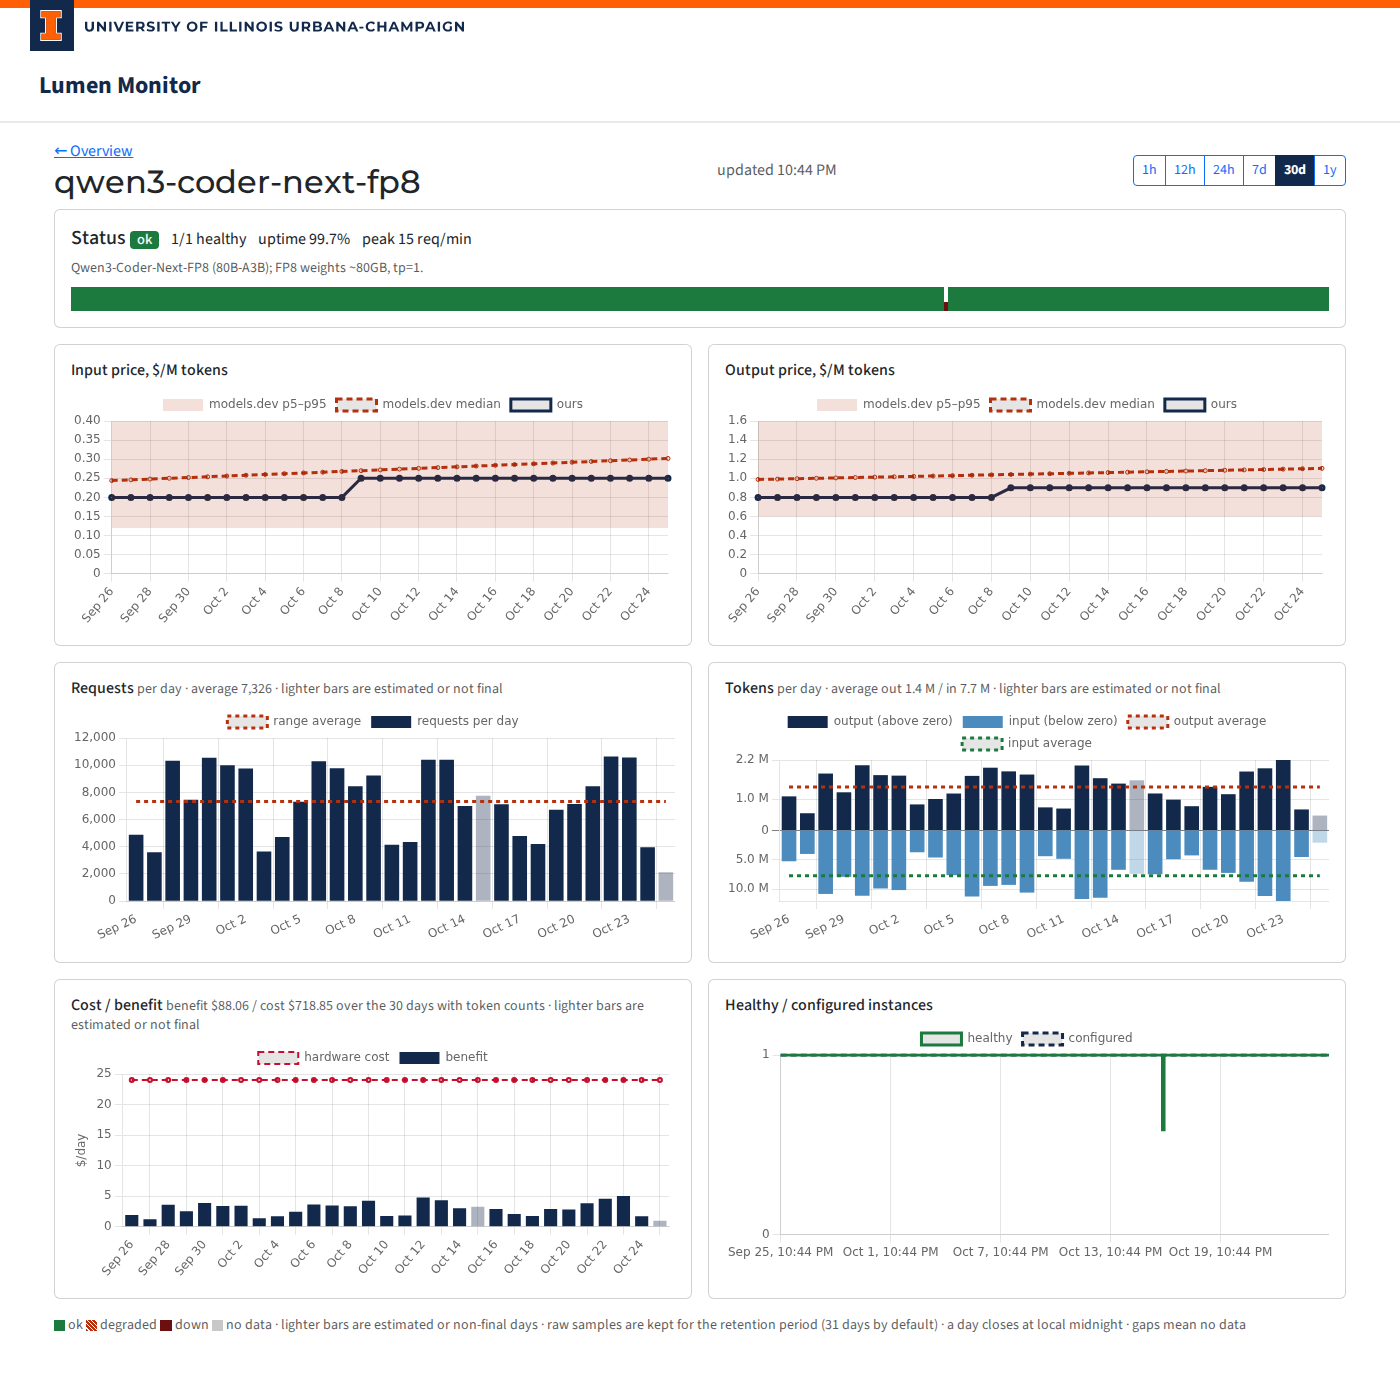
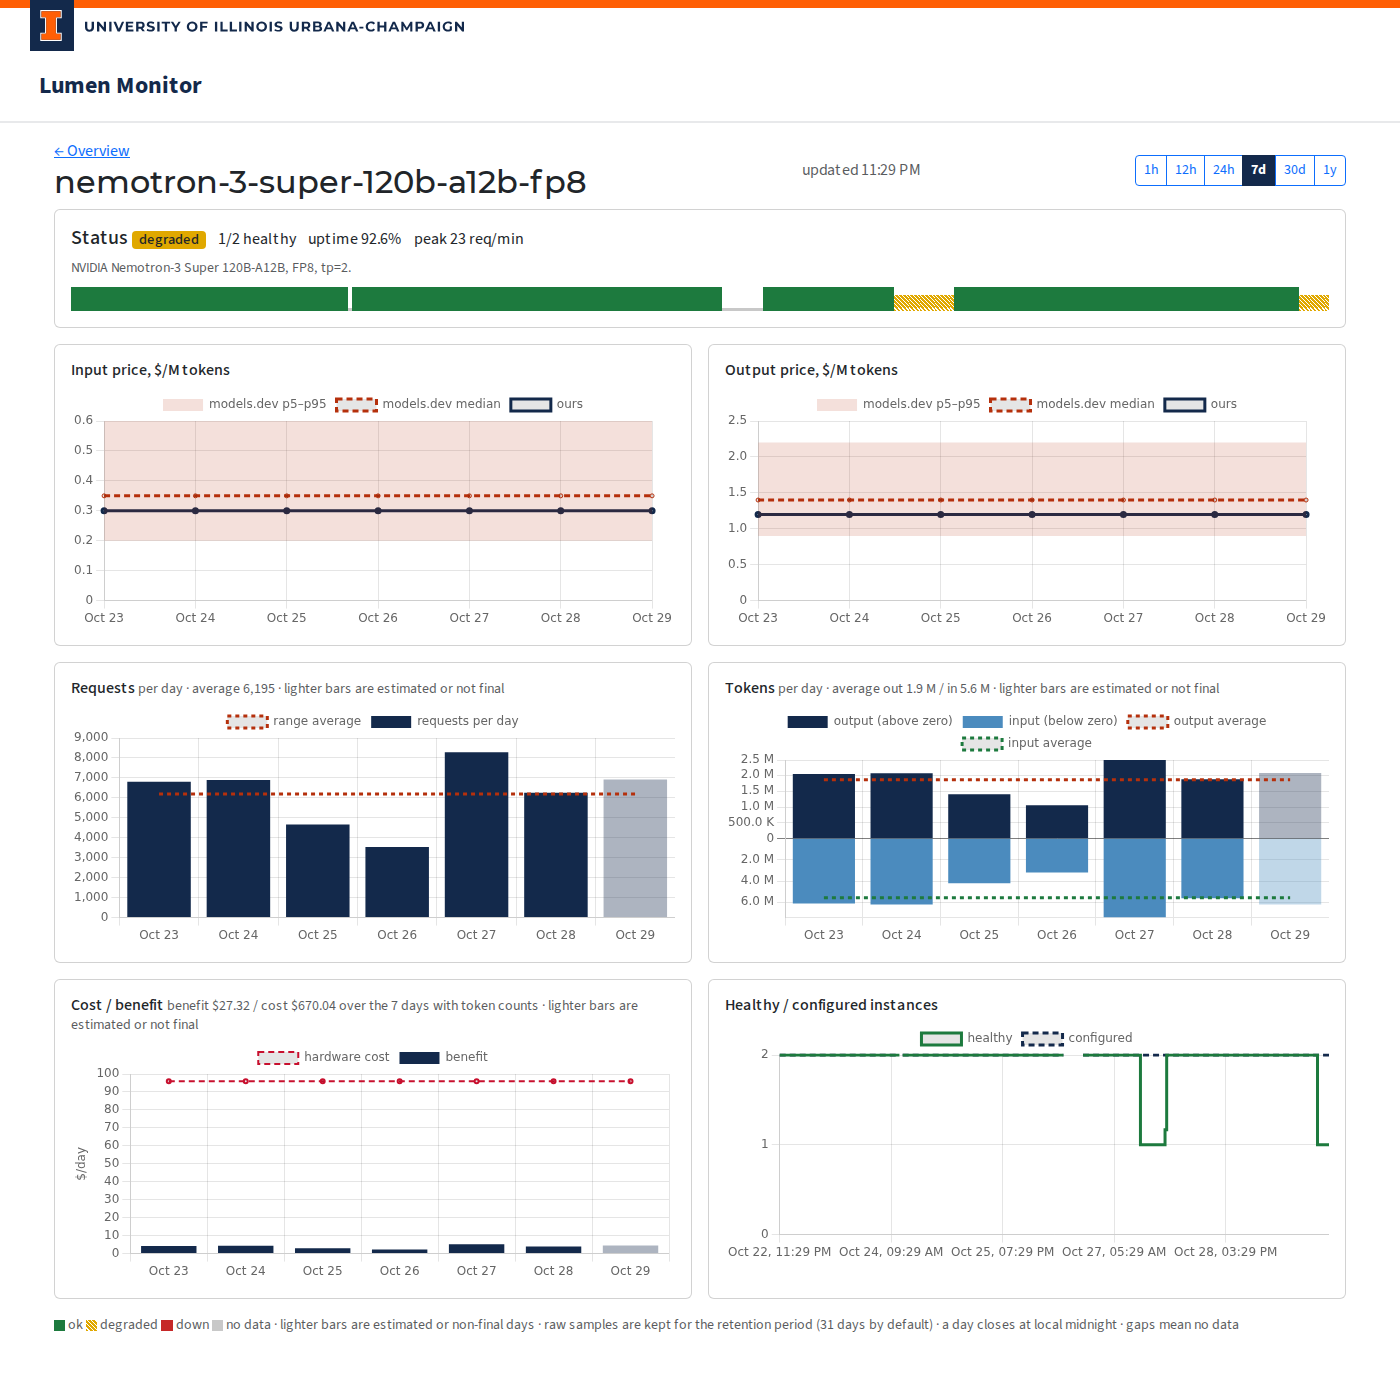
Monitor: yellow degraded, red down and strip mouse-over times (#349)
* Monitor: draw degraded yellow, show strip cell times on mouse-over

Degraded is now yellow and down red in the Lumen chart, strips, legend
and badges; the degraded badge gets dark text. The overview and model
APIs send strip_times, one start time per strip cell (ISO dates for 1y),
and degraded or down strip cells get a local-time title, listed in the
strip's aria-label up to 5 with "+N more". Screenshots re-captured.

Fixes #308

* Monitor: list the color and threshold change under Changed

Fixes #308

* Monitor: show the time of no-data strip cells too

Every strip cell that is not ok, including no data, gets a title with
its time and is listed in the strip's aria-label (capped at 5).

Fixes #308

diff --git a/scripts/monitor/monitor/static/common.js b/scripts/monitor/monitor/static/common.js
@@ -3,7 +3,7 @@
   'use strict';
 
   const STATUS_TEXT = { ok: 'ok', degraded: 'degraded', down: 'down', unknown: 'no data' };
-  const STATUS_COLOR = { ok: '#1d7a3e', degraded: '#b5300c', down: '#6b0f0f', unknown: '#c8c8c8' };
+  const STATUS_COLOR = { ok: '#1d7a3e', degraded: '#e0a800', down: '#c62828', unknown: '#c8c8c8' };
   const dash = '—';
   const isNum = v => typeof v === 'number' && isFinite(v);
   const fmtInt = v => isNum(v) ? Math.round(v).toLocaleString() : dash;
@@ -36,12 +36,41 @@
   // but was not ok, so it is drawn as degraded, the way uptime counts it.
   const drawn = s => STATUS_COLOR[s] ? s : 'degraded';
 
-  function strip(statuses) {
+  // When a strip cell starts, in local time: "26 Oct 14:05", or "26 Oct 2026" for a 1y day ("2026-10-26").
+  const MONTHS = ['Jan', 'Feb', 'Mar', 'Apr', 'May', 'Jun', 'Jul', 'Aug', 'Sep', 'Oct', 'Nov', 'Dec'];
+  const pad = n => String(n).padStart(2, '0');
+  function fmtCellTime(iso) {
+    if (/^\d{4}-\d{2}-\d{2}$/.test(iso)) {
+      const [y, m, d] = iso.split('-').map(Number);
+      return `${d} ${MONTHS[m - 1]} ${y}`;
+    }
+    const t = new Date(iso);
+    return `${t.getDate()} ${MONTHS[t.getMonth()]} ${pad(t.getHours())}:${pad(t.getMinutes())}`;
+  }
+  const MAX_LISTED = 5;
+
+  // `times` (one per cell, optional) gives each cell that is not ok (degraded, down or no data) a
+  // title with its time and status; the strip's aria-label lists those periods, at most MAX_LISTED.
+  function strip(statuses, times) {
     const counts = {};
     statuses.forEach(s => { counts[drawn(s)] = (counts[drawn(s)] || 0) + 1; });
     const summary = Object.entries(counts).map(([s, n]) => `${n} ${STATUS_TEXT[s]}`).join(', ');
-    const node = el('div', { class: 'strip', role: 'img', 'aria-label': `Status buckets: ${summary}`, title: summary });
-    statuses.forEach(s => node.append(el('span', { class: `strip-cell s-${drawn(s)}` })));
+    const periods = [];
+    const cells = statuses.map((s, i) => {
+      const attrs = { class: `strip-cell s-${drawn(s)}` };
+      if (times && times[i] && drawn(s) !== 'ok') {
+        attrs.title = `${fmtCellTime(times[i])} – ${STATUS_TEXT[drawn(s)]}`;
+        periods.push(attrs.title);
+      }
+      return el('span', attrs);
+    });
+    let label = `Status buckets: ${summary}`;
+    if (periods.length) {
+      const more = periods.length > MAX_LISTED ? `, +${periods.length - MAX_LISTED} more` : '';
+      label += `. Not ok: ${periods.slice(0, MAX_LISTED).join(', ')}${more}`;
+    }
+    const node = el('div', { class: 'strip', role: 'img', 'aria-label': label, title: summary });
+    cells.forEach(c => node.append(c));
     return node;
   }
 

diff --git a/scripts/monitor/monitor/static/overview.js b/scripts/monitor/monitor/static/overview.js
@@ -34,7 +34,7 @@
     return parts;
   }
 
-  function renderRows(models) {
+  function renderRows(models, times) {
     const body = document.getElementById('model-rows');
     body.replaceChildren();
     if (!models.length) {
@@ -49,7 +49,7 @@
       if (m.description) name.append(el('div', { class: 'model-desc', text: m.description }));
       const tr = el('tr', {}, [
         name,
-        cell(strip(m.strip)),
+        cell(strip(m.strip, times)),
         cell(fmtPct(m.uptime)),
         cell(`${m.healthy ?? dash}/${m.configured ?? dash}`),
         cell(inOut(fmtFix(m.input_price, 2), fmtFix(m.output_price, 2))),
@@ -136,7 +136,7 @@
       state.dir = ov.direction;
       renderLumen(lumen);
       renderCards(ov.cards);
-      renderRows(ov.models);
+      renderRows(ov.models, ov.strip_times);
       renderSort(ov.sort, ov.direction);
       document.getElementById('updated').textContent = `updated ${fmtTime(ov.generated_at)}`;
       error.classList.add('d-none');

diff --git a/scripts/monitor/monitor/static/detail.js b/scripts/monitor/monitor/static/detail.js
@@ -216,7 +216,7 @@
     });
   }
 
-  function renderHeader(h) {
+  function renderHeader(h, times) {
     const status = h.status || 'unknown';
     const badge = document.getElementById('model-status');
     badge.textContent = status;
@@ -225,11 +225,11 @@
     document.getElementById('model-uptime').textContent = fmtPct(h.uptime);
     document.getElementById('model-peak').textContent = isNum(h.peak_rpm) ? fmtInt(h.peak_rpm) : dash;
     document.getElementById('model-desc').textContent = h.description || '';
-    document.getElementById('model-strip').replaceChildren(strip(h.strip));
+    document.getElementById('model-strip').replaceChildren(strip(h.strip, times));
   }
 
   function render(s) {
-    renderHeader(s.header);
+    renderHeader(s.header, s.strip_times);
     priceChart('input-price', 'input', s.prices, s.daily);
     priceChart('output-price', 'output', s.prices, s.daily);
     trafficChart('requests', 'requests', s.traffic, fmtInt);

diff --git a/scripts/monitor/monitor/static/monitor.css b/scripts/monitor/monitor/static/monitor.css
@@ -1,8 +1,8 @@
 :root {
   --theme-primary: #13294B;
   --status-ok: #1d7a3e;
-  --status-degraded: #b5300c;
-  --status-down: #6b0f0f;
+  --status-degraded: #e0a800;
+  --status-down: #c62828;
   --status-unknown: #c8c8c8;
 }
 
@@ -14,7 +14,7 @@ ilw-page { --ilw-margin--side: 1.875rem; }
 
 .state-badge { display: inline-block; padding: 0 .5em; border-radius: .25rem; color: #fff; font-size: .9rem; }
 .state-up { background: var(--status-ok); }
-.state-degraded { background: var(--status-degraded); }
+.state-degraded { background: var(--status-degraded); color: #212529; }
 .state-down { background: var(--status-down); }
 .state-unknown { background: #595959; }
 

diff --git a/scripts/monitor/monitor/overview.py b/scripts/monitor/monitor/overview.py
@@ -5,7 +5,8 @@ request/token windows come from the live snapshot of the last successful
 probe. Before the first probe after a restart they come from the samples of
 the last successful probe in the database, without descriptions or windows.
 Strips, uptime and peak req/min come from `probes`/`samples` (1y: the daily
-rows); prices and hardware cost from the latest daily rows.
+rows), with `strip_times` giving when each strip cell starts; prices and
+hardware cost from the latest daily rows.
 
 A day's totals are exact only when its lumen row is `final` and not
 `estimated`. A value built from any other day is flagged `partial`.
@@ -20,6 +21,7 @@ from monitor.buckets import (
     DOWN,
     OK,
     UNKNOWN,
+    DayGrid,
     Range,
     bucket_statuses,
     daily_status,
@@ -56,6 +58,13 @@ DEFAULT_SORT = "model"
 def _iso(at: datetime | None) -> str | None:
     """Naive UTC as ISO 8601 with a `Z`, for the browser to show in local time."""
     return None if at is None else at.isoformat(timespec="seconds") + "Z"
+
+
+def strip_times(grid) -> list[str]:
+    """When each status strip cell starts: ISO dates for 1y, ISO times (UTC) for the short ranges."""
+    if isinstance(grid, DayGrid):
+        return [d.isoformat() for d in grid.days]
+    return [_iso(t) for t in grid.times()]
 
 
 def _window(windows: dict | None, key: str) -> float | None:
@@ -355,6 +364,7 @@ def overview(session: Session, config: Config, snapshot: LiveSnapshot | None, rn
         "probed_at": _iso(probed_at),
         "cards": status_cards(session, config, now, models),
         "models": rows,
+        "strip_times": strip_times(make_grid(rng, config.refresh.web, now, config.timezone)),
         "sort": sort,
         "direction": direction,
     }

diff --git a/scripts/monitor/monitor/detail.py b/scripts/monitor/monitor/detail.py
@@ -3,6 +3,7 @@
 Every range returns the same series, so the page draws the same charts:
 
 - `header`: the model's overview row (status, strip, uptime, instances, prices, cost)
+- `strip_times`: when each strip cell starts (ISO times, or ISO dates for 1y)
 - `prices`: our input/output price and the models.dev median and p5/p95; below 7d one
   point per bucket with the prices of the bucket's local day, each source carrying its
   latest earlier day forward when that day has no row (so the line steps at local
@@ -29,7 +30,7 @@ from monitor.buckets import Range, make_grid, range_days
 from monitor.config import Config
 from monitor.daily import local_day
 from monitor.models import DailyStat, Sample, token_sum
-from monitor.overview import _iso, counted_fraction, current_models, exact, model_rows
+from monitor.overview import _iso, counted_fraction, current_models, exact, model_rows, strip_times
 from monitor.probe import LiveSnapshot
 
 # From this span up, traffic is shown per local day instead of per bucket.
@@ -242,6 +243,7 @@ def series(session: Session, config: Config, snapshot: LiveSnapshot | None, mode
         "generated_at": _iso(now),
         "daily": is_daily(rng),
         "header": header,
+        "strip_times": strip_times(grid),
         "prices": _price_points(rows, days) if is_daily(rng) else _bucket_price_points(session, model_id, rows, days, grid, tz),
         "traffic": traffic,
         "hardware": {"points": hardware, "range": hardware_range},

diff --git a/scripts/monitor/tests/test_detail.py b/scripts/monitor/tests/test_detail.py
@@ -90,6 +90,7 @@ def test_every_series_for_every_range(env, range_key):
     assert data["traffic"]["unit"] == ("day" if data["daily"] else "minute")
     assert len(data["traffic"]["points"]) == TRAFFIC_POINTS[range_key]
     assert len(data["header"]["strip"]) == STRIP_BUCKETS[range_key]
+    assert len(data["strip_times"]) == STRIP_BUCKETS[range_key]
     assert data["instances"]["unit"] == ("day" if range_key == "1y" else "bucket")
     assert len(data["instances"]["points"]) == STRIP_BUCKETS[range_key]
     assert len(data["hardware"]["points"]) == DAYS[range_key]
@@ -344,6 +345,13 @@ def test_1y_instances_from_the_daily_counters(env):
     assert data["instances"]["points"][-2] == {"t": "2026-10-16", "healthy": 1.5, "configured": 2}
     assert data["instances"]["points"][-1] == {"t": "2026-10-17", "healthy": None, "configured": None}
     assert data["header"]["strip"][-2] == "ok"
+    assert data["strip_times"][-2:] == ["2026-10-16", "2026-10-17"]
+
+
+def test_short_range_strip_times_match_the_buckets(env):
+    data = get(env, "1h")
+    assert data["strip_times"] == [p["t"] for p in data["instances"]["points"]]
+    assert data["strip_times"][-1] == "2026-10-17T16:59:00Z"
 
 
 def test_model_with_history_only_and_unknown_model(env):

diff --git a/scripts/monitor/tests/test_overview.py b/scripts/monitor/tests/test_overview.py
@@ -393,3 +393,26 @@ def test_overview_payload(env):
     assert [m["id"] for m in data["models"]] == ["a", "b"]  # equal values keep the id order
     assert data["cards"]["active_models"] == 2
     assert all(len(m["strip"]) == 240 for m in data["models"])
+    # 12h buckets are 3 minutes, the last one starting 3 minutes before now.
+    assert len(data["strip_times"]) == 240
+    assert data["strip_times"][0] == "2026-10-17T05:00:00Z" and data["strip_times"][-1] == "2026-10-17T16:57:00Z"
+
+
+@pytest.mark.parametrize("range_key", list(RANGES))
+def test_strip_times_match_the_strips(env, range_key):
+    store, sf = env
+    snapshot = LiveSnapshot()
+    snapshot.set(Snapshot(NOW, [snap_model()]))
+    with sf() as session:
+        data = overview(session, store.current, snapshot, RANGES[range_key], NOW)
+    assert len(data["strip_times"]) == len(data["models"][0]["strip"])
+
+
+def test_1y_strip_times_are_local_dates(env):
+    store, sf = env
+    snapshot = LiveSnapshot()
+    snapshot.set(Snapshot(NOW, [snap_model()]))
+    with sf() as session:
+        data = overview(session, store.current, snapshot, RANGES["1y"], NOW)
+    assert len(data["strip_times"]) == 365
+    assert data["strip_times"][-2:] == ["2026-10-16", "2026-10-17"]

diff --git a/scripts/monitor/README.md b/scripts/monitor/README.md
@@ -95,7 +95,10 @@ under `base_path` (restart after changing it). The overview has:
 
 Ranges are 1h, 12h, 24h, 7d and 30d from the raw probes and samples, bucketed at 1m, 3m, 5m,
 30m and 2h (never below `refresh.web`); a bucket shows its worst status and is "no data" when
-empty. 1y uses one bucket per local day. For a model: ok at 99% availability or more, degraded
+empty. Strips, badges and the Lumen chart draw ok green, degraded yellow and down red; strip
+cells also get shorter (degraded hatched), so the state does not rely on colour. Hovering a
+cell that is not ok (degraded, down or no data) shows when its bucket starts, in local time (the
+day on 1y); a screen reader hears the first 5 such periods. 1y uses one bucket per local day. For a model: ok at 99% availability or more, degraded
 above 0%, down otherwise. For Lumen, from the probes still kept: ok when 99% or more of the
 day's probes were ok, down when none was up (failed, or more than `lumen.down_above` percent of
 models down), degraded otherwise; its uptime is the share of probes that were up. `*` marks

diff --git a/CHANGELOG.md b/CHANGELOG.md
@@ -35,6 +35,7 @@ All notable changes to Lumen will be documented in this file.
 ### Changed
 
 - `lumen.sh` no longer adds models without text input (e.g. audio-only) to the opencode config.
+- Monitor: degraded is drawn yellow and red is kept for down; Lumen counts as down when more than `lumen.down_above` (default 50%) of models are down, also in uptime and the 1y view; status strips show the time of non-ok buckets on mouse-over. (#308)
 
 ### Fixed
 
